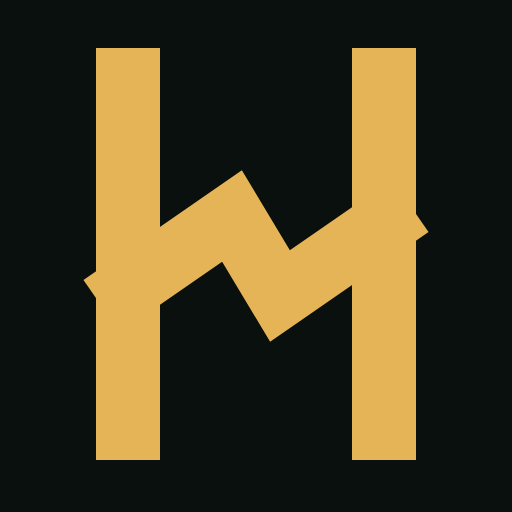
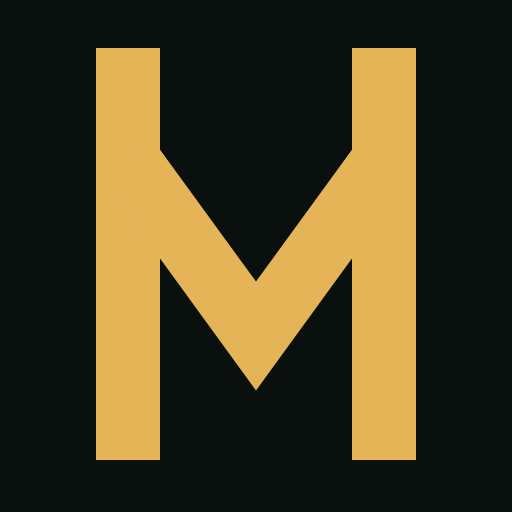
Redesign mark as H stems with an M crossbar, match section underlines

diff --git a/portfolio.html b/portfolio.html
@@ -29,9 +29,9 @@
   <div class="wrap topbar-inner">
     <a class="mark" href="index.html">
       <svg class="mark-glyph" viewBox="0 0 32 32" aria-hidden="true" focusable="false">
-        <g fill="none" stroke="currentColor" stroke-width="4" stroke-linecap="square">
+        <g fill="none" stroke="currentColor" stroke-width="4" stroke-linecap="square" stroke-linejoin="miter">
           <path d="M8 5 V27"/><path d="M24 5 V27"/>
-          <path d="M8 18 L14.5 13.5 L17.5 18.5 L24 14"/>
+          <path d="M8 10 L16 21 L24 10" stroke-linecap="butt"/>
         </g>
       </svg>
       <span>Haydn McIntyre</span>
@@ -85,7 +85,7 @@
     <p class="eyebrow">Portfolio</p>
     <h2 class="h2">Projects.</h2>
     <div class="bolt-rule" aria-hidden="true">
-      <svg viewBox="0 0 124 18"><polyline pathLength="1" points="1,13 42,13 54,4 62,14 74,5 123,5"/></svg>
+      <svg viewBox="0 0 124 18"><polyline pathLength="1" points="1,6 46,6 58,15 70,6 123,6"/></svg>
     </div>
   </section>
 
@@ -96,7 +96,7 @@
         <p class="eyebrow">Websites</p>
         <h2 class="h2">Websites.</h2>
         <div class="bolt-rule" aria-hidden="true">
-          <svg viewBox="0 0 124 18"><polyline pathLength="1" points="1,13 42,13 54,4 62,14 74,5 123,5"/></svg>
+          <svg viewBox="0 0 124 18"><polyline pathLength="1" points="1,6 46,6 58,15 70,6 123,6"/></svg>
         </div>
       </div>
       <article class="project reveal">
@@ -135,7 +135,7 @@
         <p class="eyebrow">Web application</p>
         <h2 class="h2">Web applications.</h2>
         <div class="bolt-rule" aria-hidden="true">
-          <svg viewBox="0 0 124 18"><polyline pathLength="1" points="1,13 42,13 54,4 62,14 74,5 123,5"/></svg>
+          <svg viewBox="0 0 124 18"><polyline pathLength="1" points="1,6 46,6 58,15 70,6 123,6"/></svg>
         </div>
       </div>
       <article class="project project-alt reveal">
@@ -188,7 +188,7 @@
         <p class="eyebrow">Mobile app</p>
         <h2 class="h2">Mobile apps.</h2>
         <div class="bolt-rule" aria-hidden="true">
-          <svg viewBox="0 0 124 18"><polyline pathLength="1" points="1,13 42,13 54,4 62,14 74,5 123,5"/></svg>
+          <svg viewBox="0 0 124 18"><polyline pathLength="1" points="1,6 46,6 58,15 70,6 123,6"/></svg>
         </div>
       </div>
       <article class="project reveal">
@@ -244,7 +244,7 @@
         <p class="eyebrow">Skills</p>
         <h2 class="h2">Technical skills.</h2>
         <div class="bolt-rule" aria-hidden="true">
-          <svg viewBox="0 0 124 18"><polyline pathLength="1" points="1,13 42,13 54,4 62,14 74,5 123,5"/></svg>
+          <svg viewBox="0 0 124 18"><polyline pathLength="1" points="1,6 46,6 58,15 70,6 123,6"/></svg>
         </div>
       </div>
 

diff --git a/index.html b/index.html
@@ -37,9 +37,9 @@
   <div class="wrap topbar-inner">
     <a class="mark" href="#top">
       <svg class="mark-glyph" viewBox="0 0 32 32" aria-hidden="true" focusable="false">
-        <g fill="none" stroke="currentColor" stroke-width="4" stroke-linecap="square">
+        <g fill="none" stroke="currentColor" stroke-width="4" stroke-linecap="square" stroke-linejoin="miter">
           <path d="M8 5 V27"/><path d="M24 5 V27"/>
-          <path d="M8 18 L14.5 13.5 L17.5 18.5 L24 14"/>
+          <path d="M8 10 L16 21 L24 10" stroke-linecap="butt"/>
         </g>
       </svg>
       <span>Haydn McIntyre</span>
@@ -107,7 +107,7 @@
         <p class="eyebrow">Portfolio</p>
         <h2 class="h2">Projects.</h2>
         <div class="bolt-rule" aria-hidden="true">
-          <svg viewBox="0 0 124 18"><polyline pathLength="1" points="1,13 42,13 54,4 62,14 74,5 123,5"/></svg>
+          <svg viewBox="0 0 124 18"><polyline pathLength="1" points="1,6 46,6 58,15 70,6 123,6"/></svg>
         </div>
               </div>
 
@@ -140,7 +140,7 @@
         <p class="eyebrow">About</p>
         <h2 class="h2">Hello.</h2>
         <div class="bolt-rule" aria-hidden="true">
-          <svg viewBox="0 0 124 18"><polyline pathLength="1" points="1,13 42,13 54,4 62,14 74,5 123,5"/></svg>
+          <svg viewBox="0 0 124 18"><polyline pathLength="1" points="1,6 46,6 58,15 70,6 123,6"/></svg>
         </div>
         <p class="about-lede">
           I am Haydn McIntyre, a software developer and website designer. I
@@ -171,7 +171,7 @@
         <p class="eyebrow">Services</p>
         <h2 class="h2">What I do for you.</h2>
         <div class="bolt-rule" aria-hidden="true">
-          <svg viewBox="0 0 124 18"><polyline pathLength="1" points="1,13 42,13 54,4 62,14 74,5 123,5"/></svg>
+          <svg viewBox="0 0 124 18"><polyline pathLength="1" points="1,6 46,6 58,15 70,6 123,6"/></svg>
         </div>
       </div>
       <div class="layers">
@@ -202,7 +202,7 @@
         <p class="eyebrow">Contact</p>
         <h2 class="h2">Get in touch.</h2>
         <div class="bolt-rule" aria-hidden="true">
-          <svg viewBox="0 0 124 18"><polyline pathLength="1" points="1,13 42,13 54,4 62,14 74,5 123,5"/></svg>
+          <svg viewBox="0 0 124 18"><polyline pathLength="1" points="1,6 46,6 58,15 70,6 123,6"/></svg>
         </div>
         <p class="about-lede">
           Have a project in mind? Send me the details and I'll take a look.
